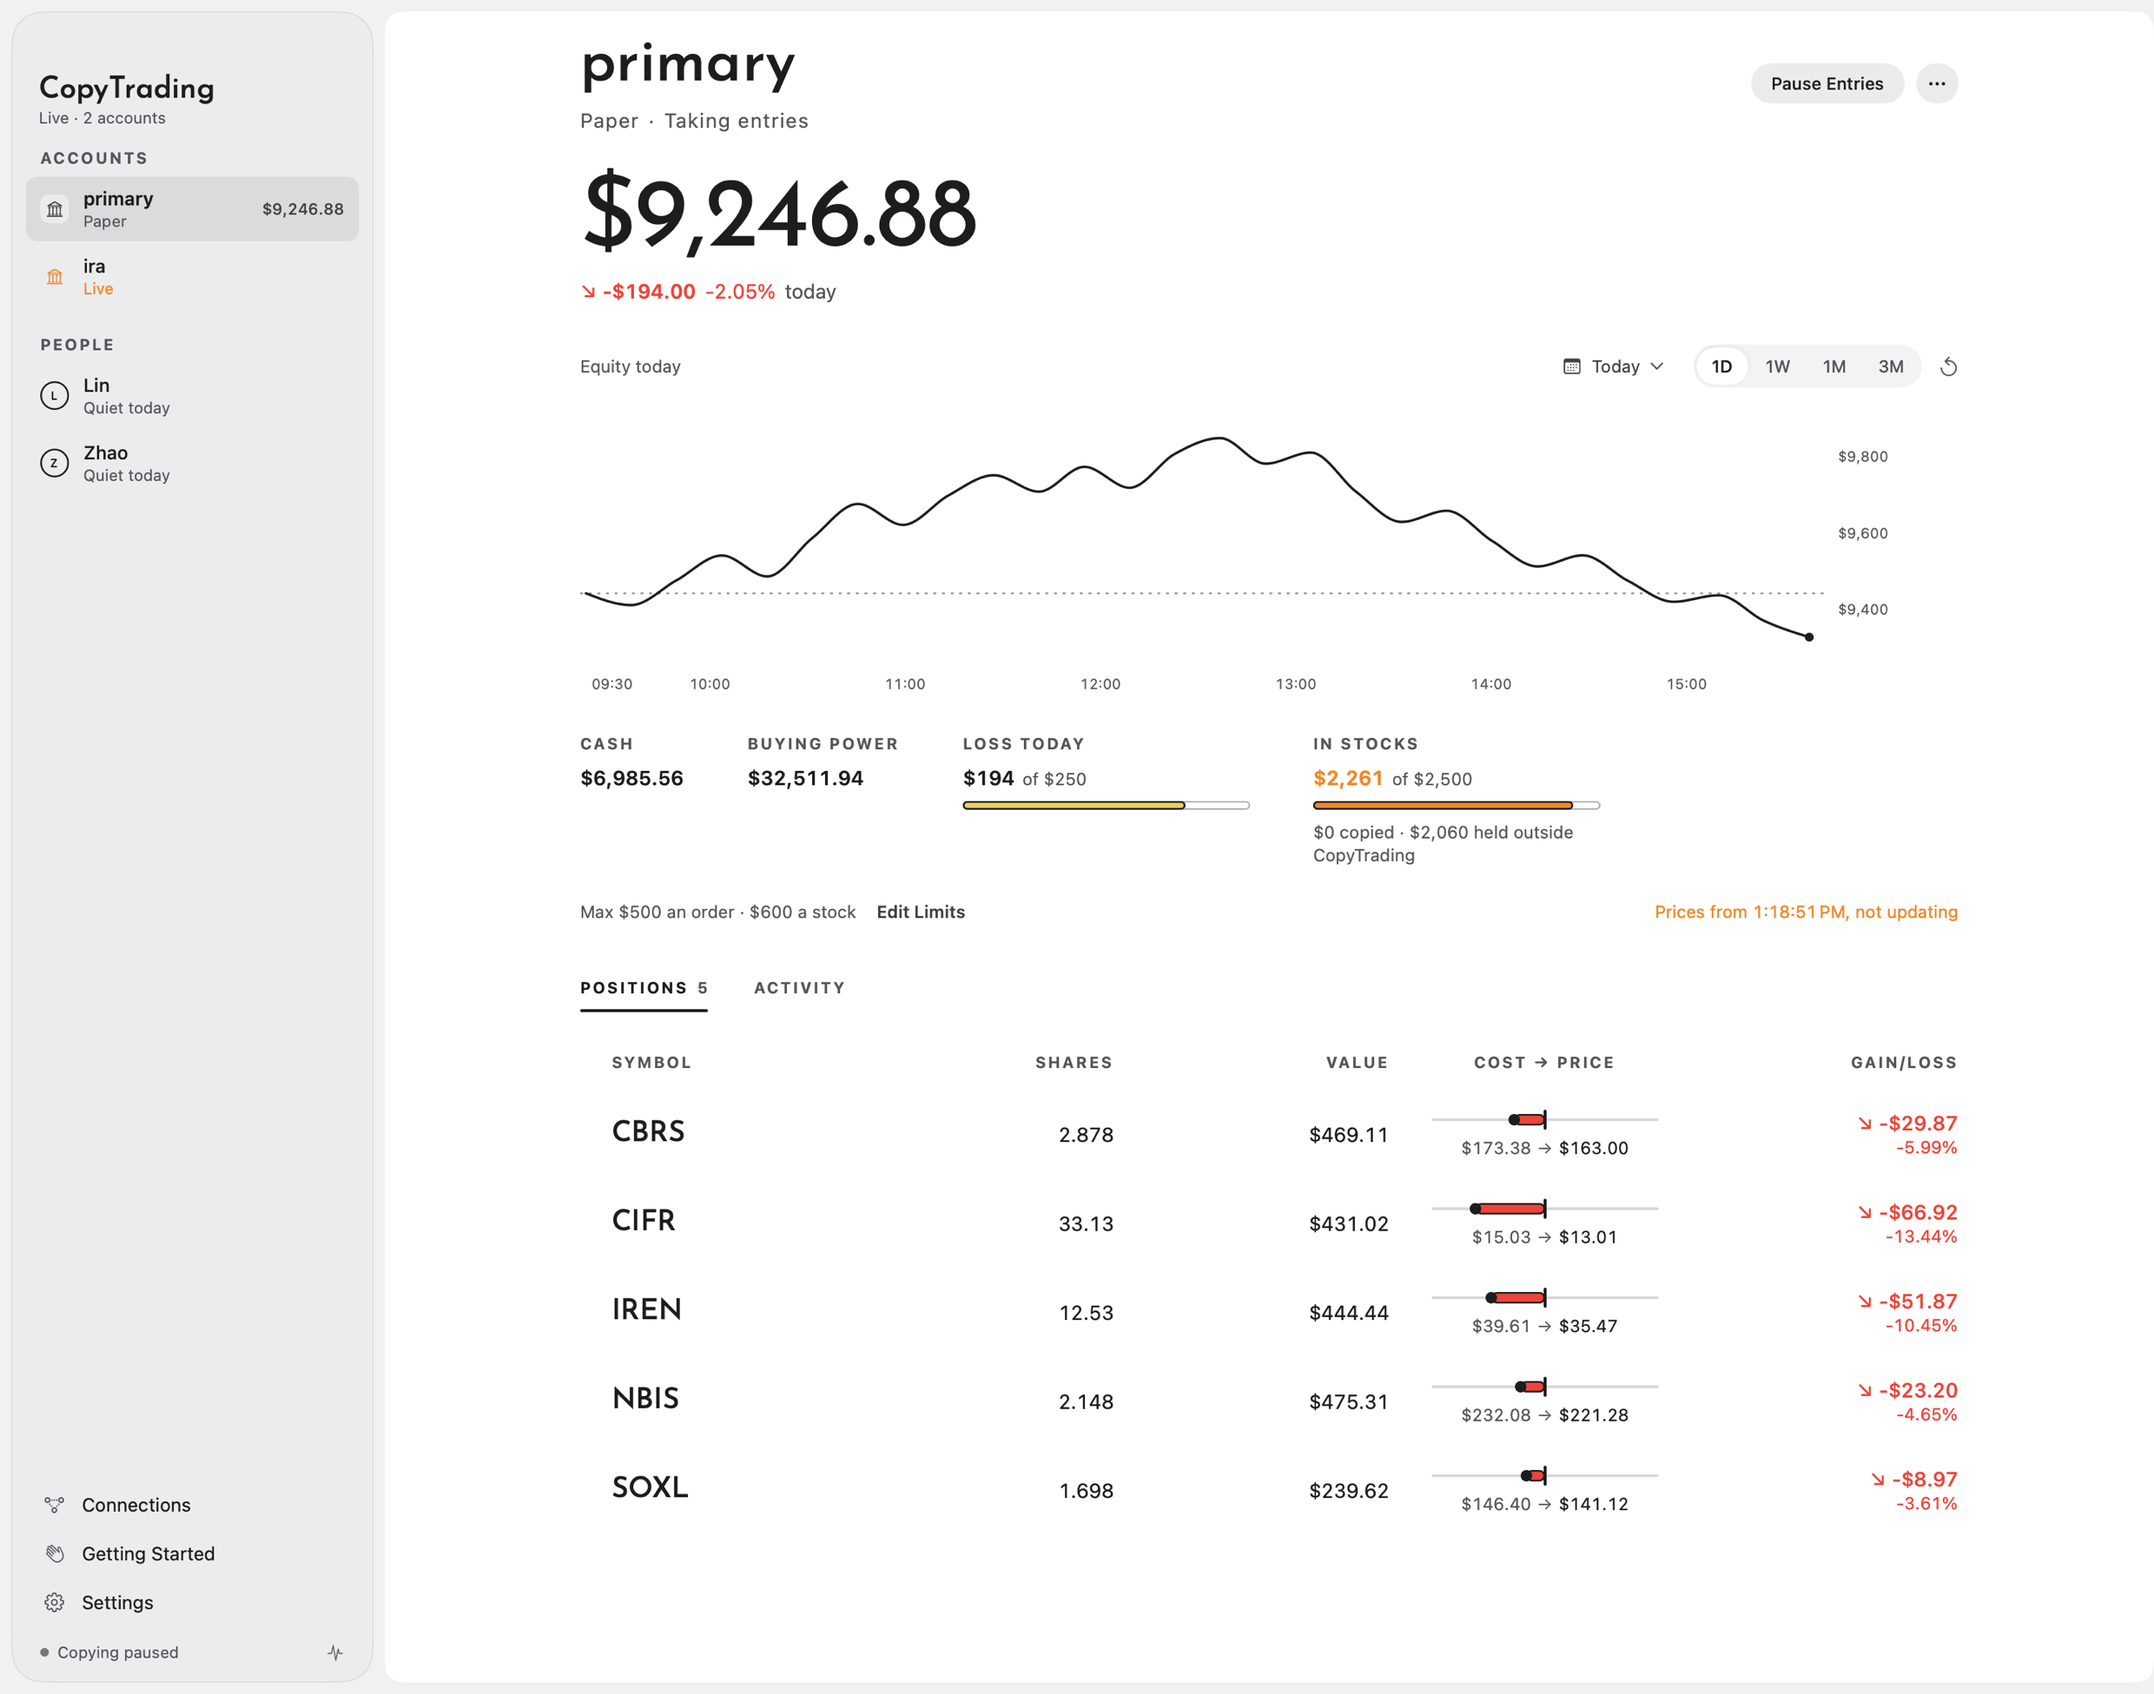
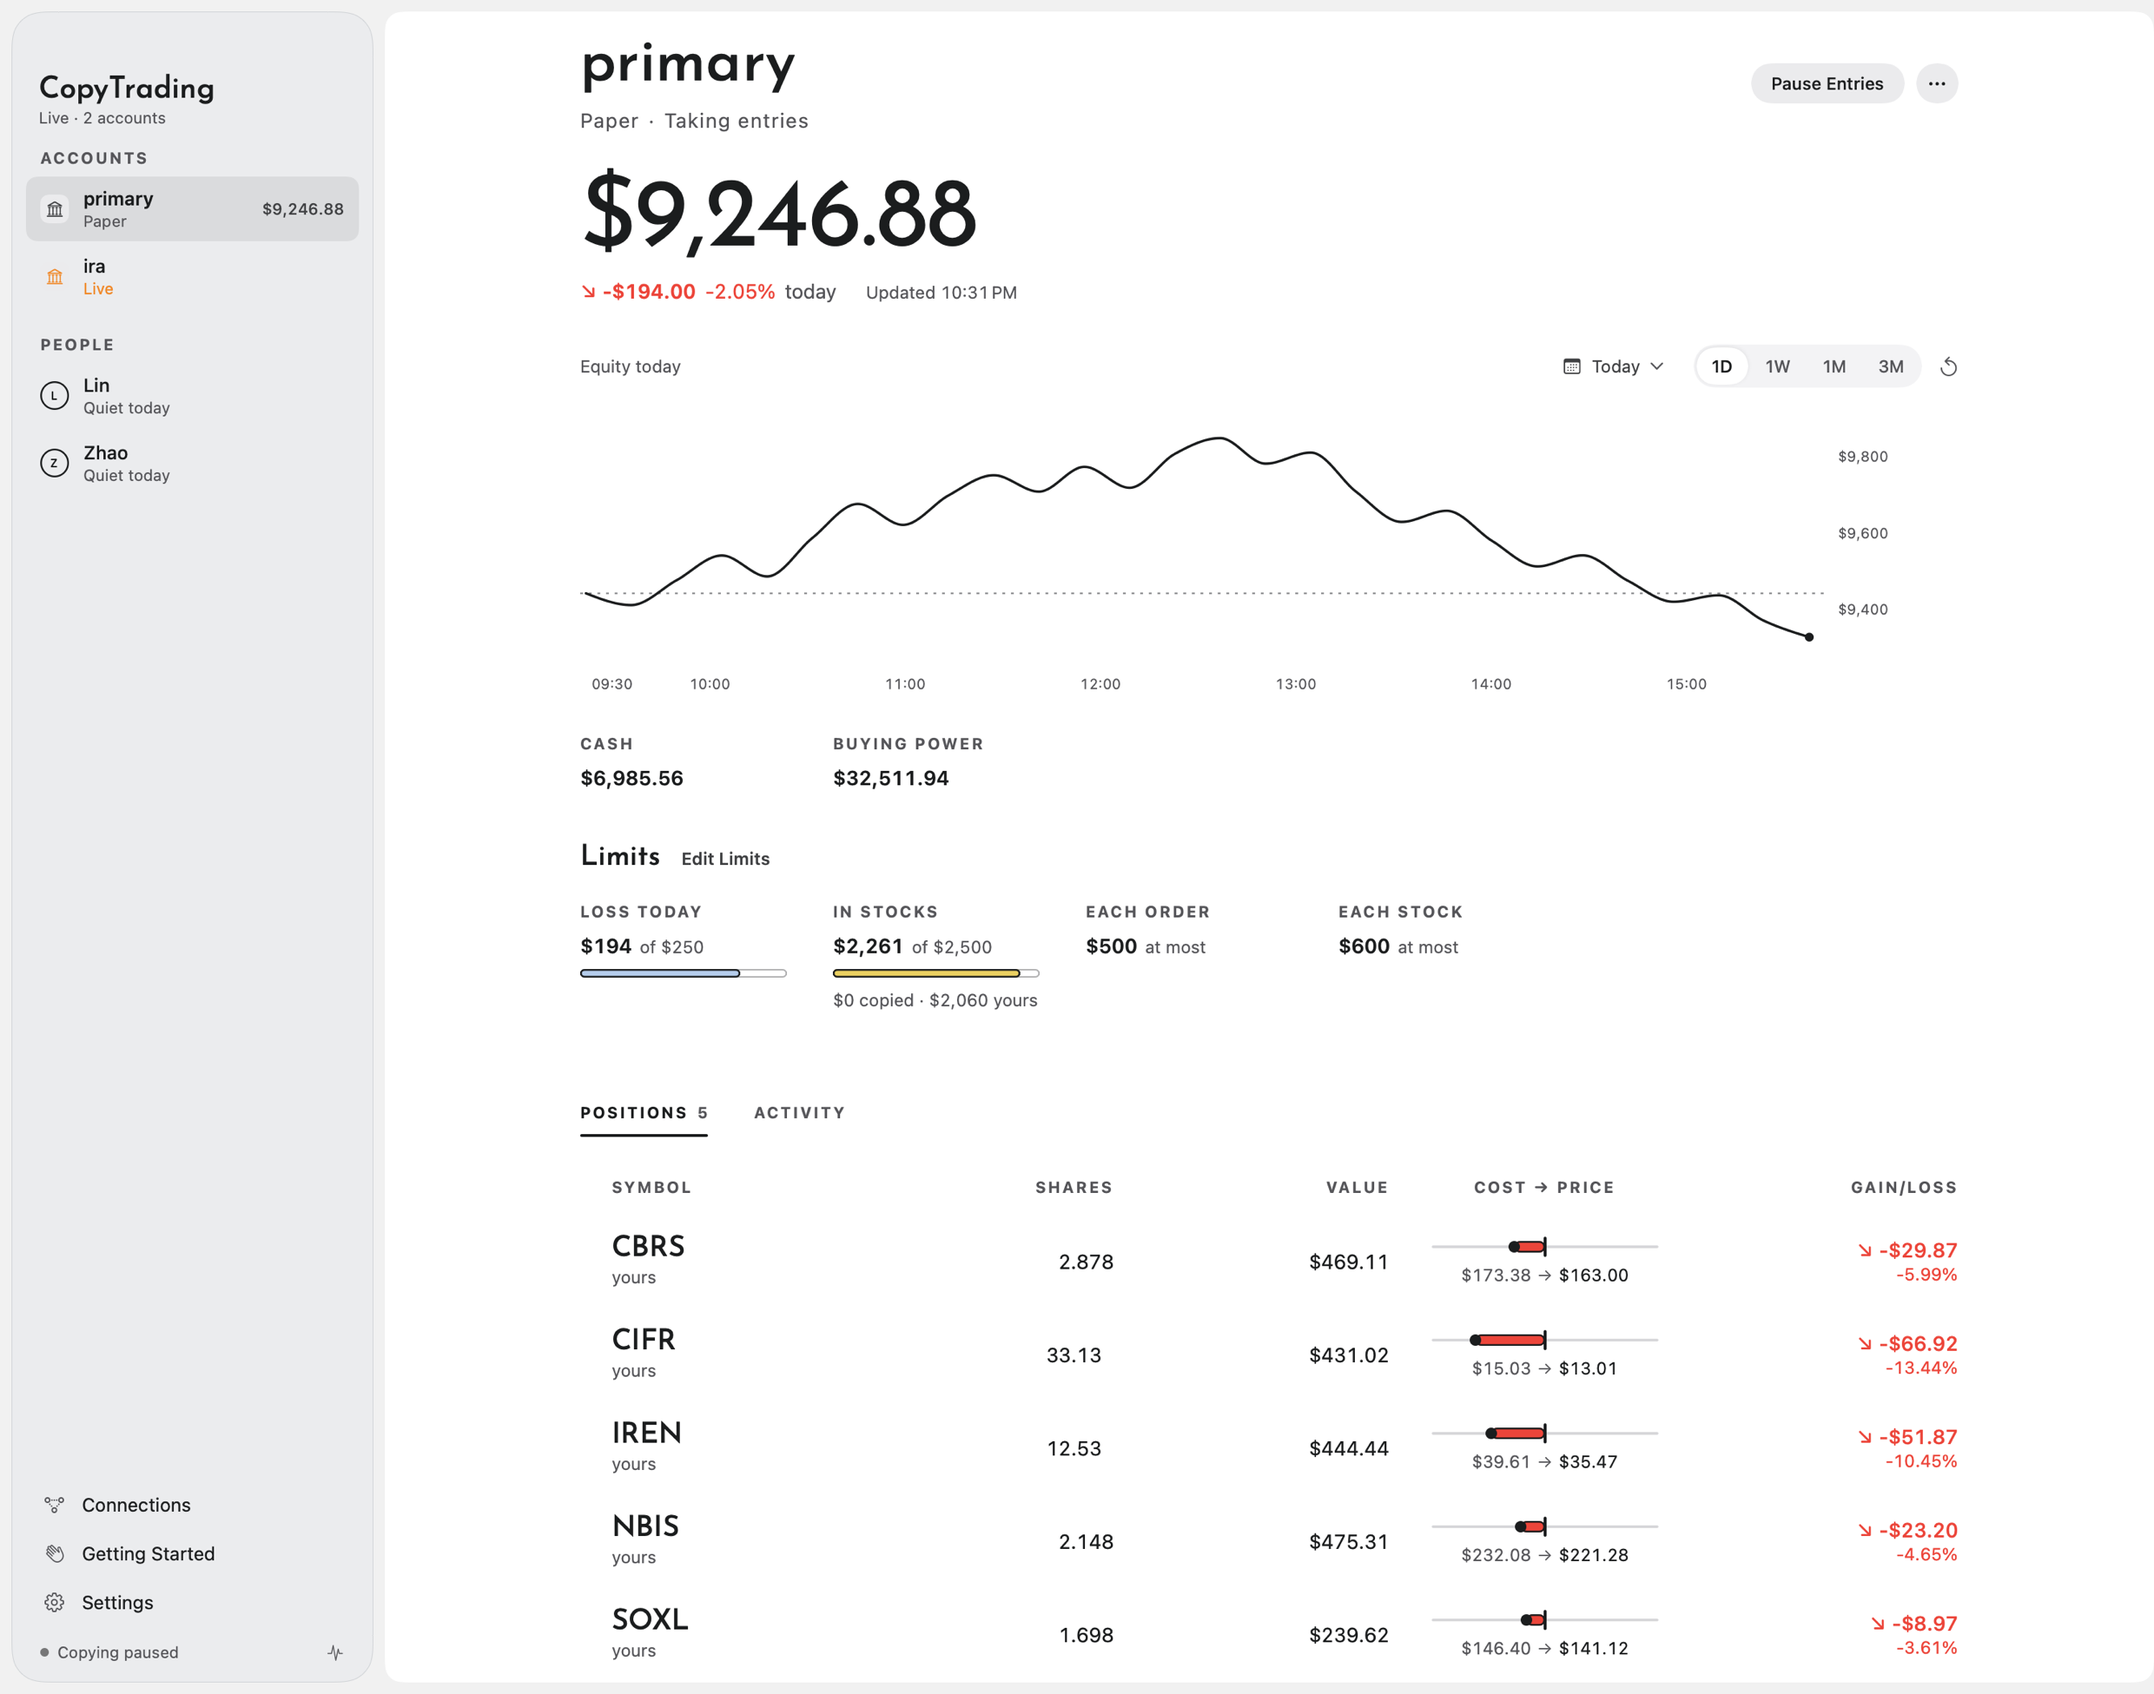
Ask for the chart of any account read live, not only the running setup (#77)
After a failed start the engine has no running setup, so the account's
overview comes back with `active_configuration: false`. Its balance is
still read with the paused keys, but the app only asked for curves of
accounts in the running setup, so the chart said "Reading the account's
curve from Alpaca…" indefinitely. #76 fixed the engine side of a related
path but not this one.

- `AccountOverview.readsBrokerCurve`: in the running setup, or its
balance is read live.
- `refreshHistories` asks for every account where that holds; an
archived account with no balance is still skipped.
- DesktopCore check covers both cases.

Verified on the Desktop build: after a failed start, with copying
stopped, the 1D chart now draws.
`make desktop-tests` and `make lint-swift` pass.

🤖 Generated with [Claude Code](https://claude.com/claude-code)

https://claude.ai/code/session_01FSmZjkTWfnTTjHLmHvuQGL

---------

diff --git a/app/Tests/DesktopCoreTests/ProtocolTests.swift b/app/Tests/DesktopCoreTests/ProtocolTests.swift
@@ -215,6 +215,25 @@ private func checkAccountValuationFixturesDecode() throws {
     try #require(order.averageFillPrice == "12.30", "average fill price did not decode")
     try #require(order.limitPrice == "12.34", "limit price did not decode")
 
+    guard
+        case .accounts(let overviews) = try JSONDecoder().decode(
+            EngineResponse.self, from: contractFixture("account-overviews-response.json")
+        ).successValue(), let read = overviews.items.first,
+        case .accounts(let archived) = try JSONDecoder().decode(
+            EngineResponse.self, from: contractFixture("account-overviews-next-page-response.json")
+        ).successValue(), let archive = archived.items.first
+    else {
+        throw VerificationFailure(description: "account overviews did not decode")
+    }
+    // After a failed start the account leaves the running setup but its balance is still read.
+    var stopped = try JSONSerialization.jsonObject(with: JSONEncoder().encode(read)) as? [String: Any] ?? [:]
+    stopped["active_configuration"] = false
+    let stoppedAccount = try JSONDecoder().decode(
+        AccountOverview.self, from: JSONSerialization.data(withJSONObject: stopped)
+    )
+    try #require(stoppedAccount.readsBrokerCurve, "a stopped account read live did not ask for its curve")
+    try #require(!archive.readsBrokerCurve, "an archived account asked the broker for its curve")
+
     let history = try JSONDecoder().decode(
         EngineResponse.self, from: contractFixture("equity-history-response.json")
     )

diff --git a/app/Sources/CopyTrading/Features/Accounts/AccountFeatureModel.swift b/app/Sources/CopyTrading/Features/Accounts/AccountFeatureModel.swift
@@ -102,7 +102,7 @@ final class AccountFeatureModel {
         return newest + current.filter { $0.id < oldest }
     }
 
-    /// Reads each loaded account's equity curve; an account with no running owner has none.
+    /// Reads the equity curve of each loaded account the broker can be asked about.
     func refreshHistories(
         window: EquityHistoryWindow? = nil, using actions: (any AccountOperations)?
     ) async {
@@ -112,7 +112,7 @@ final class AccountFeatureModel {
             historyWindow = window
             histories = [:]
         }
-        for account in accounts where account.activeConfiguration {
+        for account in accounts where account.readsBrokerCurve {
             do {
                 let history = try await actions.equityHistory(accountID: account.accountID, window: window)
                 guard isCurrent(generation), historyWindow == window else { return }

diff --git a/app/Sources/DesktopCore/AccountModels.swift b/app/Sources/DesktopCore/AccountModels.swift
@@ -650,3 +650,9 @@ public struct EquityHistory: Codable, Equatable, Sendable {
         case points
     }
 }
+
+extension AccountOverview {
+    /// Whether the broker can be asked for this account's curve: it is in the running setup, or
+    /// its balance is read live while copying is stopped.
+    public var readsBrokerCurve: Bool { activeConfiguration || balance != nil }
+}

diff --git a/README.md b/README.md
@@ -36,7 +36,7 @@ CopyTrading is a native macOS app that reads the stock calls traders post on Dis
 > **Developer preview.** CopyTrading has not been qualified for live trading. Start with an Alpaca paper account, and see [validation](docs/validation.md) for what has and has not been proven.
 
 <p align="center">
-  <a href="docs/assets/account.png"><img src="docs/assets/account.png" alt="An account: its balance and the day's change, the equity curve, cash and buying power beside today's loss and what is in stocks against their limits, and each position with whose shares they are (sample data)" width="860"></a>
+  <a href="docs/assets/account.png"><img src="docs/assets/account.png" alt="An account: its balance and the day's change, the equity curve, cash and buying power, every limit under one Limits title with today's loss and what is in stocks against their caps, and each position with whose shares they are (sample data)" width="860"></a>
 </p>
 
 <details>
